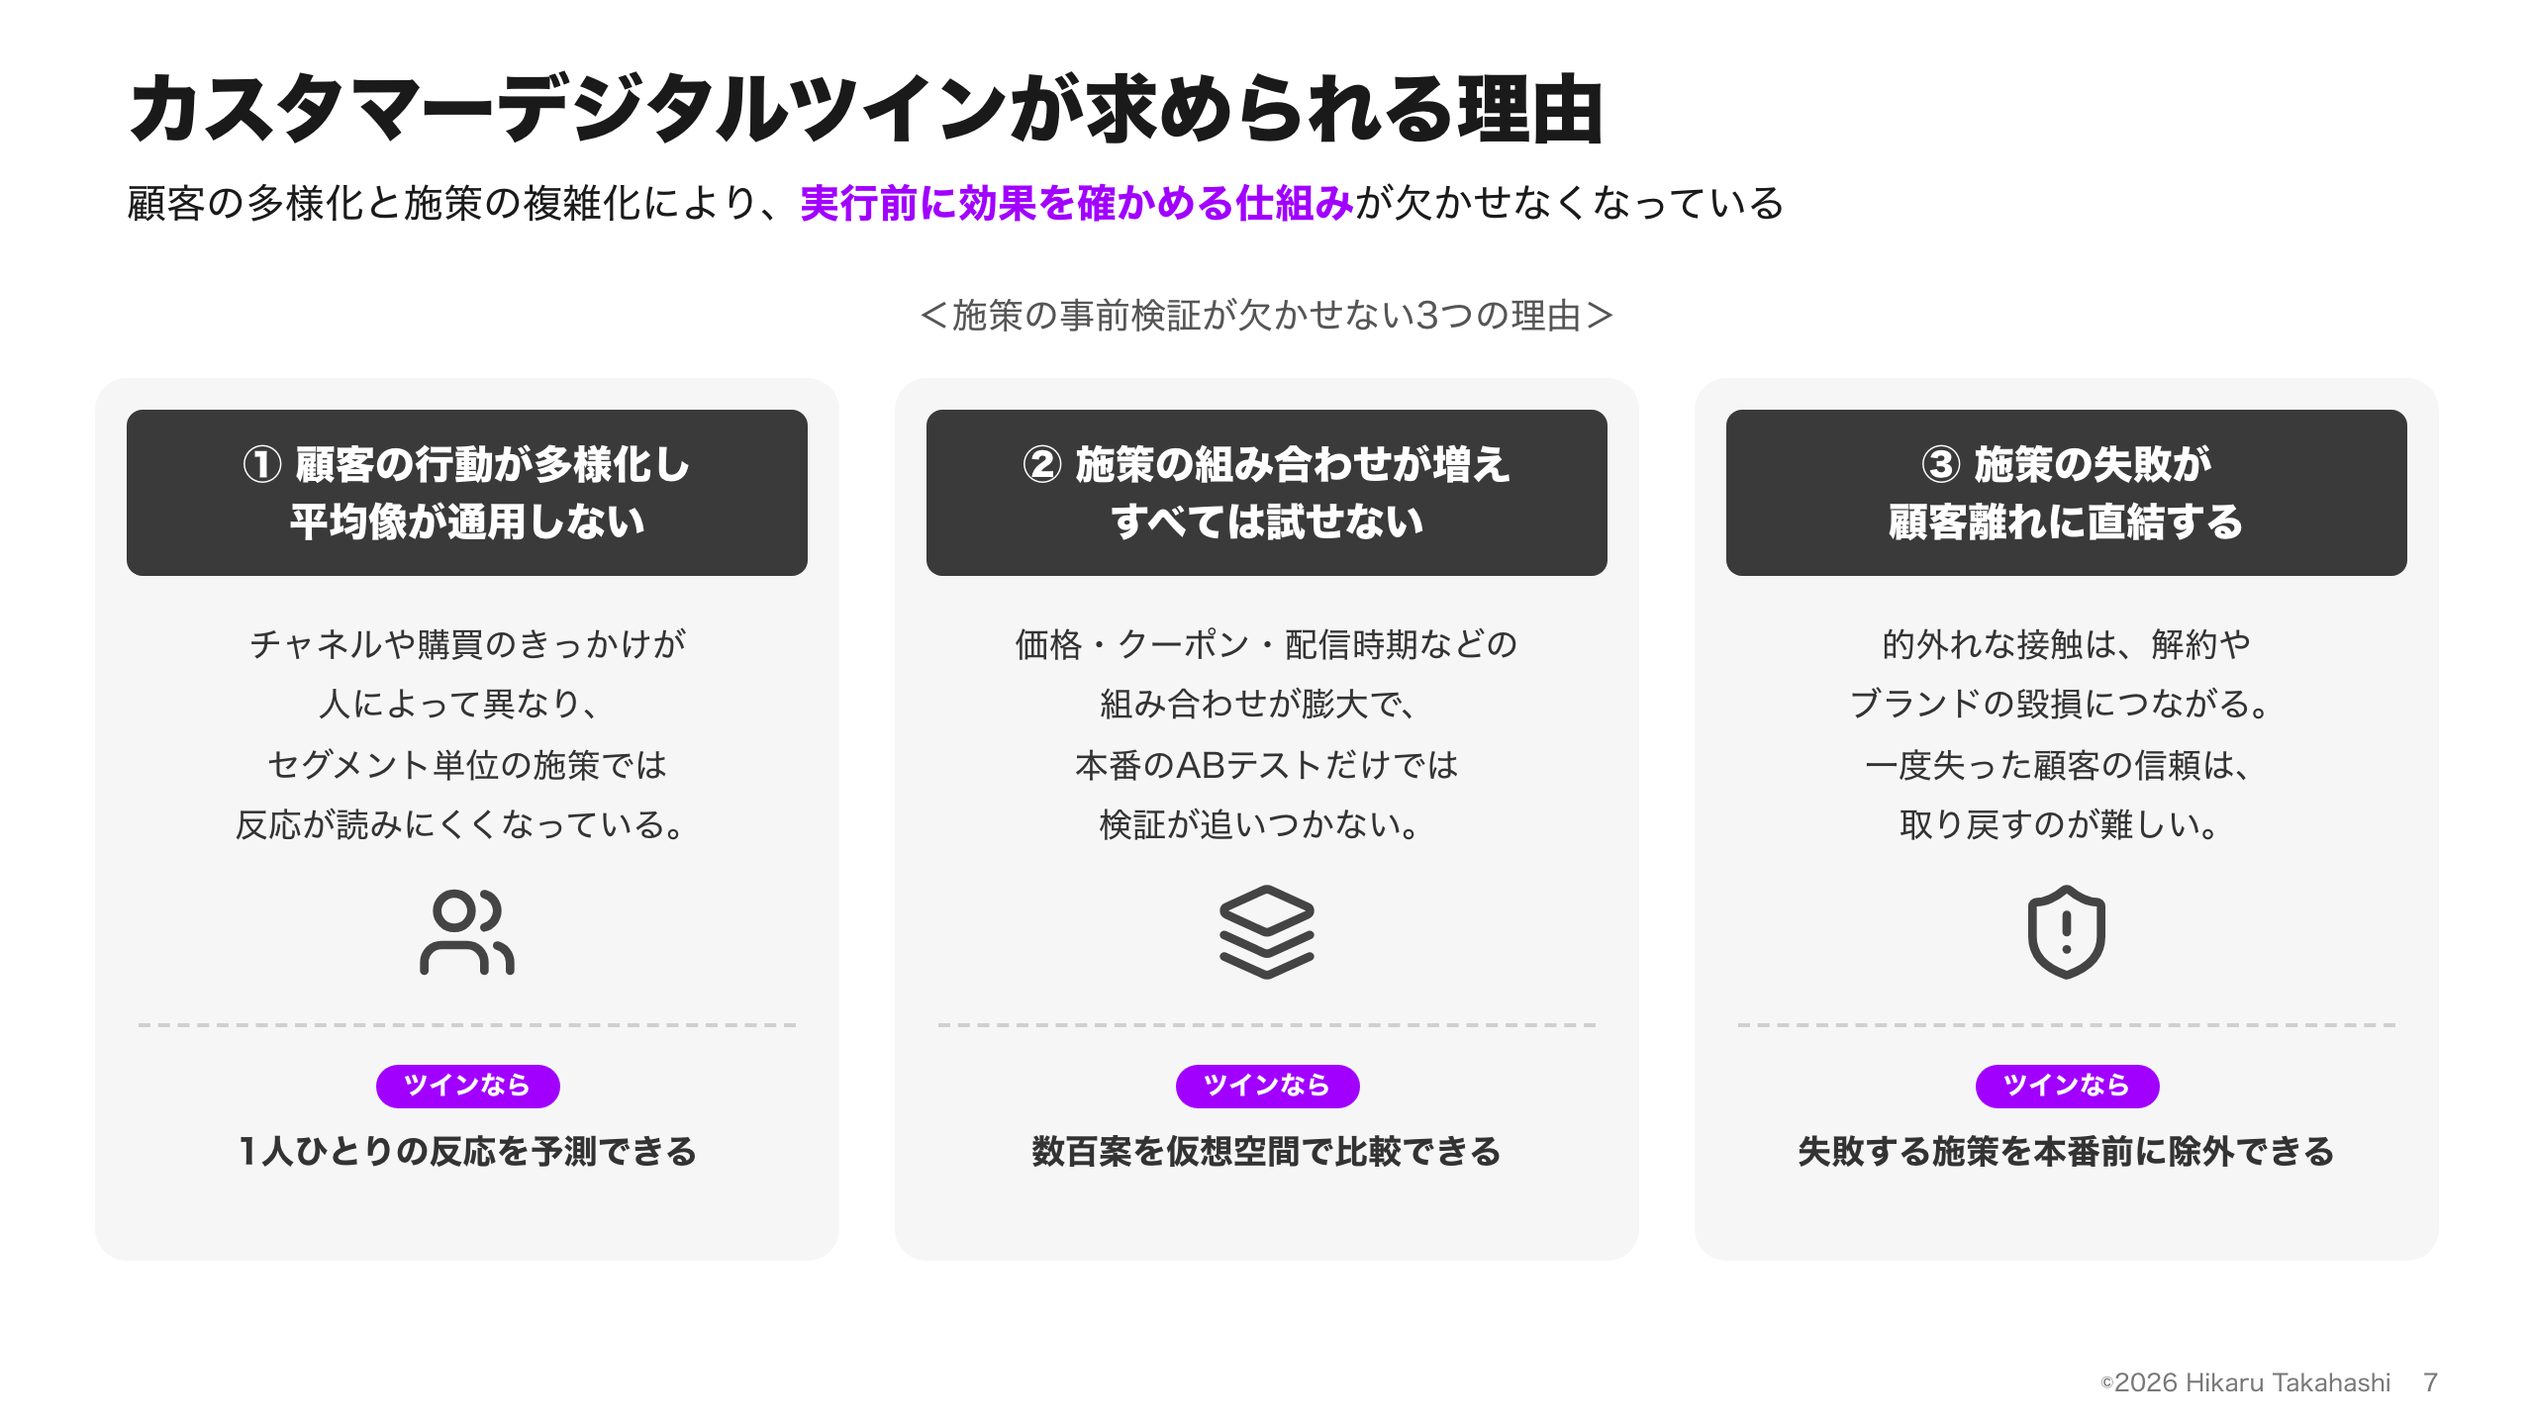
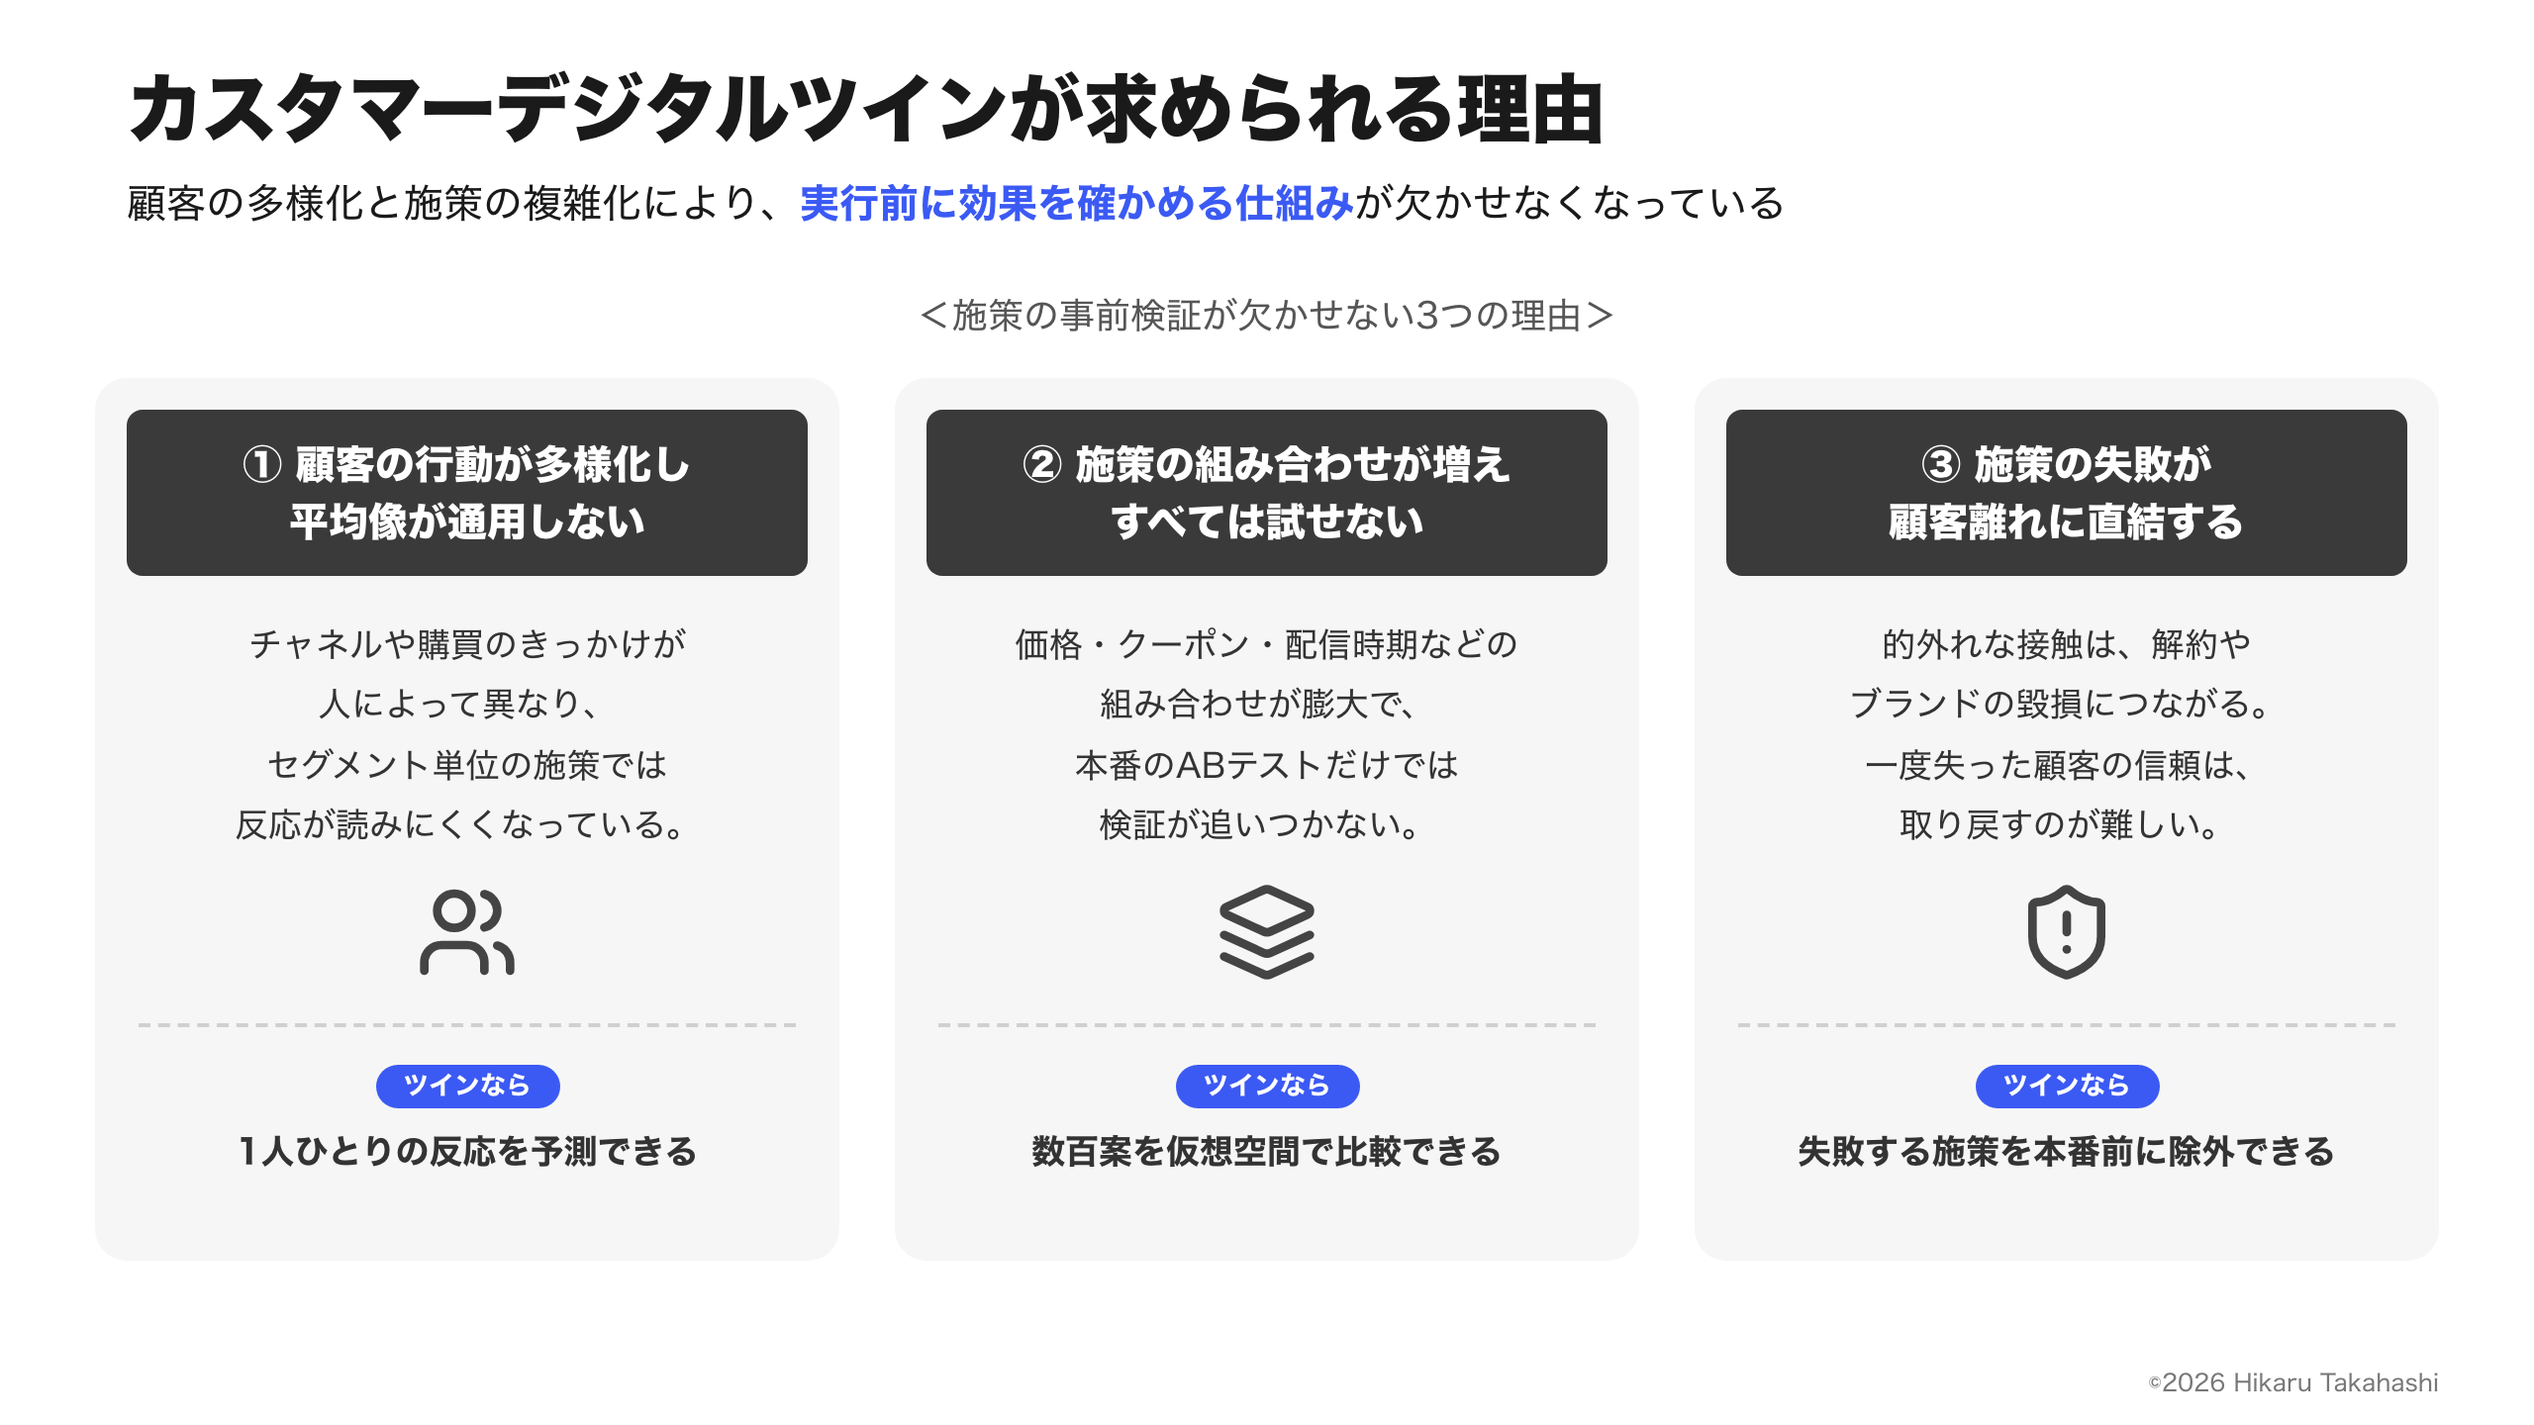
[change] Set ponchi-e default color to #3b5af4 and drop page numbers
- Change the default main color in theme.css, docs, example illustrations and undraw.py
- Remove page numbers from the footer (template, examples, docs)
- Keep emphasized words in key messages on one line
- Re-render example PNGs

diff --git a/ponchi-e/templates/base.html b/ponchi-e/templates/base.html
@@ -39,6 +39,7 @@
 
   /* テキスト */
   .em { color: var(--main); font-weight: 700; }                 /* 本文中の強調語 */
+  .key-message .em { white-space: nowrap; }                      /* キーメッセージの強調語は行をまたがせない */
   .strong { font-weight: 700; }
   .nw { white-space: nowrap; }                                   /* 途中で改行させたくない語句 */
   .small { font-size: 13px; color: var(--sub); }
@@ -95,7 +96,6 @@
   /* フッター */
   .source { position: absolute; left: 48px; bottom: 12px; font-size: 12px; color: var(--sub); }
   .page-info { position: absolute; right: 48px; bottom: 12px; font-size: 12px; color: var(--sub); }
-  .page-info .no { margin-left: 16px; }
 </style>
 </head>
 <body>
@@ -108,7 +108,7 @@
     {{コンテンツ：examples/ のパターンを参考に組む}}
   </div>
   <div class="source">出所：{{出所}}</div>
-  <div class="page-info">{{コピーライト}}<span class="no">{{ページ番号}}</span></div>
+  <div class="page-info">{{コピーライト}}</div>
 </div>
 </body>
 </html>

diff --git a/ponchi-e/examples/phases.html b/ponchi-e/examples/phases.html
@@ -32,5 +32,5 @@
     <div class="col-text" style="left:990px;top:236px">構築後も<br>予測精度の<br>モニタリングと<br>適用領域の拡大を<br>支援</div>
     <div class="deliv" style="left:12px;width:168px"><span class="deliv-label">成果物</span>現状診断レポート</div><div class="deliv" style="left:210px;width:168px"><span class="deliv-label">成果物</span>対象領域の定義書</div><div class="deliv" style="left:408px;width:168px"><span class="deliv-label">成果物</span>統合データ基盤</div><div class="deliv" style="left:606px;width:168px"><span class="deliv-label">成果物</span>解約予測モデル</div><div class="deliv" style="left:804px;width:168px"><span class="deliv-label">成果物</span>施策シミュレーター</div><div class="deliv" style="left:1002px;width:168px"><span class="deliv-label">成果物</span>月次モニタリング</div>
   </div>
-  <div class="page-info">©2026 Hikaru Takahashi<span class="no">4</span></div>
+  <div class="page-info">©2026 Hikaru Takahashi</div>
 </div>

diff --git a/ponchi-e/examples/levels.html b/ponchi-e/examples/levels.html
@@ -44,5 +44,5 @@
     <div class="who" style="top:310px"><i class="icon " style="--i:url(https://unpkg.com/lucide-static@0.460.0/icons/users-round.svg)"></i>全社のデータ管理部門</div>
     <div class="plan" style="top:356px;background:var(--tint-3);color:var(--ink)">データ基盤整備プラン</div>
   </div>
-  <div class="page-info">©2026 Hikaru Takahashi<span class="no">3</span></div>
+  <div class="page-info">©2026 Hikaru Takahashi</div>
 </div>

diff --git a/ponchi-e/examples/hub.html b/ponchi-e/examples/hub.html
@@ -33,5 +33,5 @@
       <div class="side-sub"><b>主な活用</b><ul class="dots"><li>価格改定の影響試算</li><li>新商品の需要予測</li><li>投資判断の根拠づくり</li></ul></div>
     </div>
   </div>
-  <div class="page-info">©2026 Hikaru Takahashi<span class="no">1</span></div>
+  <div class="page-info">©2026 Hikaru Takahashi</div>
 </div>

diff --git a/ponchi-e/examples/flow.html b/ponchi-e/examples/flow.html
@@ -64,5 +64,5 @@
       <ul class="dots"><li>施策の打率が上がる</li><li>不要な顧客接触を減らせる</li><li>意思決定が速くなる</li></ul>
     </div>
   </div>
-  <div class="page-info">©2026 Hikaru Takahashi<span class="no">2</span></div>
+  <div class="page-info">©2026 Hikaru Takahashi</div>
 </div>

diff --git a/ponchi-e/examples/reasons.html b/ponchi-e/examples/reasons.html
@@ -37,5 +37,5 @@
       <div class="rs-out"><span class="pill main round">ツインなら</span><div>失敗する施策を本番前に除外できる</div></div>
     </div>
   </div>
-  <div class="page-info">©2026 Hikaru Takahashi<span class="no">7</span></div>
+  <div class="page-info">©2026 Hikaru Takahashi</div>
 </div>

diff --git a/ponchi-e/examples/cases.html b/ponchi-e/examples/cases.html
@@ -40,5 +40,5 @@
     </div>
   </div>
   <div class="source">出所：導入企業へのヒアリングをもとに作成（お手本のため数値は架空）</div>
-  <div class="page-info">©2026 Hikaru Takahashi<span class="no">6</span></div>
+  <div class="page-info">©2026 Hikaru Takahashi</div>
 </div>

diff --git a/ponchi-e/examples/compare.html b/ponchi-e/examples/compare.html
@@ -37,5 +37,5 @@
     </div>
     <div class="cmp-foot">※費用は、対象とする領域とデータの量によって変わります。</div>
   </div>
-  <div class="page-info">©2026 Hikaru Takahashi<span class="no">5</span></div>
+  <div class="page-info">©2026 Hikaru Takahashi</div>
 </div>

diff --git a/ponchi-e/theme.css b/ponchi-e/theme.css
@@ -1,2 +1,2 @@
 /* メインカラー：ここを書き換えると、スライドの主役の色が変わる（淡い色・濃い色はこの色から自動で作られる） */
-:root { --main: #a100ff; }
+:root { --main: #3b5af4; }

diff --git a/ponchi-e/scripts/undraw.py b/ponchi-e/scripts/undraw.py
@@ -15,7 +15,7 @@ import sys
 import urllib.parse
 
 UNDRAW_DEFAULT = "#6c63ff"  # unDraw default accent color
-EXAMPLE_COLOR = "#a100ff"   # color of the saved example illustrations
+EXAMPLE_COLOR = "#3b5af4"   # color of the saved example illustrations
 THEME = pathlib.Path(__file__).resolve().parent.parent / "theme.css"
 MAIN_COLOR = re.search(r"--main:\s*(#[0-9a-fA-F]{3,8})", THEME.read_text(encoding="utf-8")).group(1)
 

diff --git a/ponchi-e/SKILL.md b/ponchi-e/SKILL.md
@@ -1,6 +1,6 @@
 ---
 name: ponchi-e
-description: 戦略コンサルタントが作成したような、洗練されたポンチ絵（1枚で概念や全体像を伝える図解スライド）を16:9の画像（PNG）で作成する。上から順に「スライドタイトル → キーメッセージ → コンテンツ」の構成にし、メインカラーは theme.css で指定（既定は #a100ff、依頼ごとに変更可）。内容に合った図（放射図・流れ図・比較・マトリクスなど）を1つ選び、余白を活かしたすっきりした図にする。「スライドを作って」「ポンチ絵にして」「資料を画像で」「1枚にまとめて」「全体像を図にして」と言われたときに使う。
+description: 戦略コンサルタントが作成したような、洗練されたポンチ絵（1枚で概念や全体像を伝える図解スライド）を16:9の画像（PNG）で作成する。上から順に「スライドタイトル → キーメッセージ → コンテンツ」の構成にし、メインカラーは theme.css で指定（既定は #3b5af4、依頼ごとに変更可）。内容に合った図（放射図・流れ図・比較・マトリクスなど）を1つ選び、余白を活かしたすっきりした図にする。「スライドを作って」「ポンチ絵にして」「資料を画像で」「1枚にまとめて」「全体像を図にして」と言われたときに使う。
 ---
 
 # ポンチ絵作成（16:9画像）
@@ -12,7 +12,7 @@ HTML（1280×720）でスライドを組み、`scripts/render.py` で PNG（2560
 1. **スライドタイトル**：そのページのテーマを名詞句で書く。38px・極太・左寄せ。タイトルの上に章ラベルなどは置かない。
 2. **キーメッセージ**：そのページの結論を文で書く。20px・標準の太さ（太字にしない）。1〜2行。`<br>` で改行せず、ヘッダーの右端（左右の余白は `base.html` の設定どおり）まで使って自然に折り返す。折り返しは文節の切れ目で自動的に行われるが、語の途中で分かれた場合は、その語句を `<span class="nw">` で囲んで分かれないようにする。
 3. **コンテンツ**：そのページの主役となる図を1つ置く。図の形は内容から決める（お手本の形に限らない）。
-4. **フッター**：右下にコピーライトとページ番号。数値を載せた場合は左下に出所。
+4. **フッター**：右下にコピーライト（ページ番号は付けない）。数値を載せた場合は左下に出所。
 
 ## お手本（仕上がりのイメージ）
 `examples/` に、お手本の HTML（`<body>` の中身）と完成画像（PNG）がある。お手本は**仕上がりの品質・トーン・情報量の目安**であり、図の形をこれらに限るものではない。**作り始める前に、内容に近いお手本の PNG を Read ツールで開いてトーンをつかむ。** 内容がお手本の形に合うときはその HTML を流用してよい。
@@ -37,7 +37,7 @@ HTML（1280×720）でスライドを組み、`scripts/render.py` で PNG（2560
   - 補足は、ピル型の小見出し＋チップ（`.chip`：小さなグレーのラベル）や、3項目程度の箇条書きで示す
 - **余白**：情報を増やしても、要素の間隔は詰めすぎない。補足の帯は点線（`.dashed-h`）で主役の図と区切り、図全体が上下左右の中央付近に来るように配置する。
 - **色**：
-  - メインカラーは `theme.css` の `--main` で決まる（既定は `#a100ff`）。HTML の中で色コードを直接書かず、`var(--main)` や下記の変数を使う
+  - メインカラーは `theme.css` の `--main` で決まる（既定は `#3b5af4`）。HTML の中で色コードを直接書かず、`var(--main)` や下記の変数を使う
   - メインカラーは「主役」にだけ使う。中心の円、本題の工程の矢羽根、主役のプラン、本文中の強調語（`.em`）など
   - 主役ではない要素は、チャコール（`#333`）、グレー（`#d9d9d9` / `#f0f0f0`）、メインカラーの淡色（`var(--tint)` など。メインカラーから自動で作られる）で描く
   - 本題の範囲は淡色の面（`.soft`）で囲み、前後の工程や比較対象はグレーや淡色にして強弱をつける

diff --git a/README.md b/README.md
@@ -18,10 +18,10 @@ Claude Code で使う自作スキル集。
 1. **スライドタイトル**：左寄せの大きな太字。章ラベルは付けない
 2. **キーメッセージ**：そのページの結論を1〜2行の文で書く（太字にしない）
 3. **コンテンツ**：内容に合った図を1つ置く（お手本の放射図・流れ図・レベル図・タイムライン・比較表・事例カード・3つの理由は仕上がりの目安で、形はこれらに限らない）
-4. **フッター**：右下にコピーライトとページ番号、数値を載せた場合は左下に出所
+4. **フッター**：右下にコピーライト（ページ番号は付けない）、数値を載せた場合は左下に出所
 
 ### デザインの特徴
-- メインカラー（既定は `#a100ff`）は主役だけに使い、それ以外はチャコール・グレー・メインカラーの淡色で描いて強弱をつける
+- メインカラー（既定は `#3b5af4`）は主役だけに使い、それ以外はチャコール・グレー・メインカラーの淡色で描いて強弱をつける
 - 主役の図は1つに絞り、各要素の短い説明や下段の補足（データ・活用シーン・効果・成果物など）で具体性を出す
 - 余白を活かし、主要な説明は16〜18px、補足は14〜15pxで大きさに差をつける
 - [Lucide](https://lucide.dev/icons) のアイコンをグレーの細線で使い、必要なときだけ [unDraw](https://undraw.co/illustrations) のイラストをメインカラーに色を変えて添える
